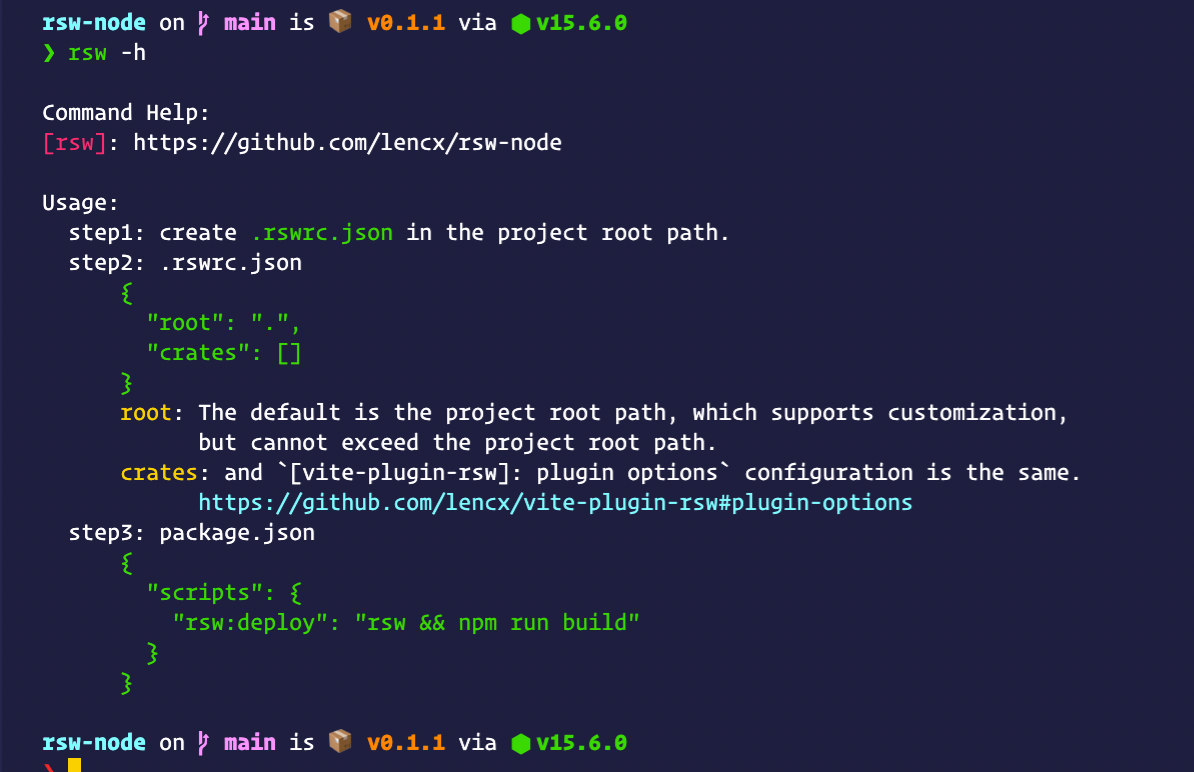
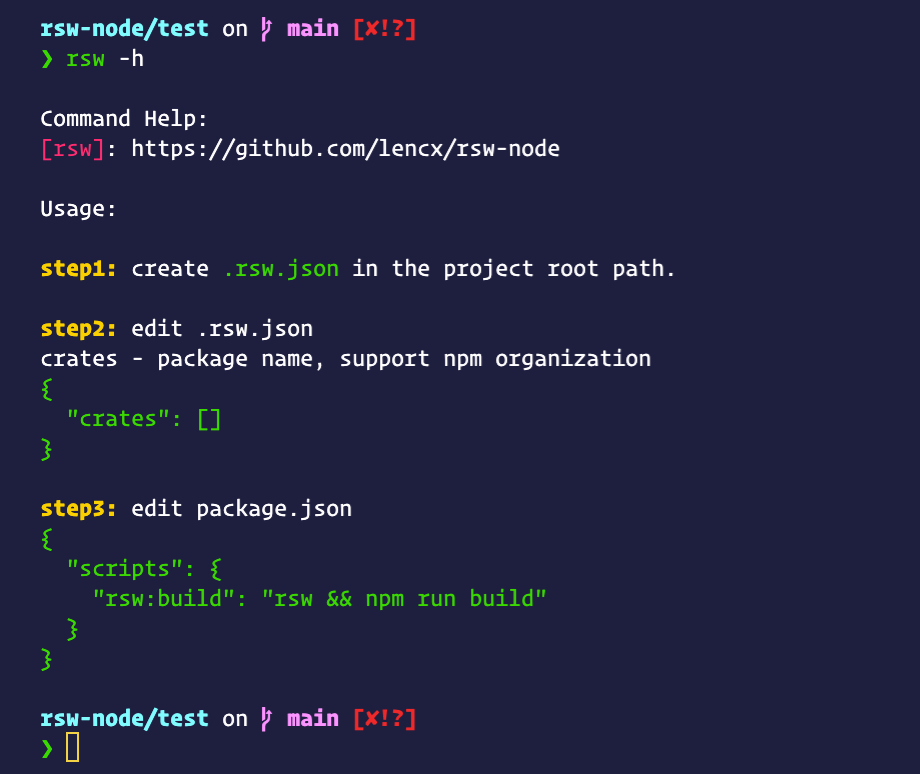
chore: update config

diff --git a/index.js b/index.js
@@ -8,9 +8,10 @@ const which = require('which');
 const debug = require('debug')('rsw:cmd');
 const spawnSync = require('child_process').spawnSync;
 const argv = require('minimist')(process.argv.slice(2));
+const rimraf = require('rimraf');
 
 const isWin = os.platform() === 'win32';
-const wpCmd = () => (isWin ? 'wasm-pack.exe' : 'wasm-pack');
+const wpCmd = isWin ? 'wasm-pack.exe' : 'wasm-pack';
 const getCrateName = (crate) => (typeof crate === 'object' ? crate.name : crate);
 
 async function init() {
@@ -28,69 +29,79 @@ async function init() {
   checkWpCmd();
 
   let cratesMap = new Map();
-  const hasRswrc = fs.existsSync('.rswrc.json');
 
-  if (hasRswrc) {
-    debug('`.rswrc.json` file exists');
-    const rswrc = fs.readFileSync(`.rswrc.json`, 'utf8');
-    const rcJSON = JSON.parse(rswrc);
-
-    if (!rcJSON.crates) {
-      console.log(
-        chalk.bold.red('[rsw::cmd::config]'),
-        chalk.red('`.rswrc.json` is missing the `crates` field.'),
-        chalk.red(`\n\`${JSON.stringify(rcJSON, null, 2)}\`\n`),
-      );
-      process.exit();
-    }
-
-    rcJSON.crates.forEach(i => {
-      let rswCrate, pkgName, scope, outDir;
-      const args = ['build', '--release', '--target', 'web'];
-
-      rswCrate = getCrateName(i);
-      outDir = getCratePath(i, rcJSON.root || '.');
-      if (rswCrate.startsWith('@')) {
-        const a = rswCrate.match(/(@.*)\/(.*)/);
-        scope = a[1].substring(1);
-        pkgName = `${scope}~${a[2]}`;
-      } else {
-        pkgName = rswCrate;
-      }
-
-      args.push('--out-name', pkgName);
-      if (scope) args.push('--scope', scope);
-      if (outDir) args.push('--out-dir', outDir);
-
-      const cmdCwd = path.resolve(process.cwd(), rcJSON.root || '.', rswCrate);
-
-      debug(`[wasm-pack build](${rswCrate}) ${args.join(' ')}`);
-      debug(`[wasm-pack cwd](${rswCrate}) ${cmdCwd}`);
-
-      let p = spawnSync(`${wpCmd()}`, args, {
-        shell: true,
-        cwd: cmdCwd,
-        stdio: 'inherit',
-      });
-
-      if (p.status !== 0) {
-        debug(`[wasm-pack build error](${rswCrate}) ${args.join(' ')}`);
-        console.log(chalk.red(`[rsw::cmd::error] wasm-pack for crate ${rswCrate} failed.`));
-        throw chalk.red(p.error);
-      }
-
-      debug(`[wasm-pack build success](${rswCrate}) ${outDir}`);
-      cratesMap.set(rswCrate, outDir);
-    });
-  } else {
-    debug('`.rswrc.json` file does not exist');
+  const hasRswrc = fs.existsSync('.rsw.json');
+  if (!hasRswrc) {
+    debug('`.rsw.json` file does not exist');
     console.log(
       chalk.bold.red('[rsw::cmd::config]'),
-      chalk.red('missing `.rswrc.json` file'),
+      chalk.red('missing `.rsw.json` file'),
     );
     cmdHelp();
     process.exit();
   }
+
+  rimraf.sync(`${process.cwd()}/.rsw/crates`);
+
+  debug('`.rsw.json` file exists');
+  const rswrc = fs.readFileSync(`.rsw.json`, 'utf8');
+  const rcJSON = JSON.parse(rswrc);
+
+  if (!rcJSON.crates) {
+    console.log(
+      chalk.bold.red('[rsw::cmd::config]'),
+      chalk.red('`.rsw.json` is missing the `crates` field.'),
+      chalk.red(`\n\`${JSON.stringify(rcJSON, null, 2)}\`\n`),
+    );
+    process.exit();
+  }
+
+  rcJSON.crates.forEach(i => {
+    let rswCrate, pkgName, scope, outDir;
+    const args = ['build', '--release', '--target', 'web'];
+
+    rswCrate = getCrateName(i);
+
+    spawnSync(`npm`, ['unlink', '-g', rswCrate], {
+      shell: true,
+      cwd: process.cwd(),
+      stdio: 'inherit',
+    });
+
+    outDir = getCratePath(i, `${process.cwd()}/.rsw/crates`);
+
+    if (rswCrate.startsWith('@')) {
+      const a = rswCrate.split(/@|\//);
+      scope = a[1];
+      pkgName = `${scope}~${a[2]}`;
+    } else {
+      pkgName = rswCrate;
+    }
+
+    args.push('--out-name', pkgName);
+    if (scope) args.push('--scope', scope);
+    if (outDir) args.push('--out-dir', outDir);
+
+    const cmdCwd = path.resolve(process.cwd(), rswCrate);
+
+    debug(`[wasm-pack build](${rswCrate}) ${args.join(' ')}`);
+    debug(`[wasm-pack cwd](${rswCrate}) ${cmdCwd}`);
+
+    let p = spawnSync(`${wpCmd}`, args, {
+      shell: true,
+      cwd: cmdCwd,
+      stdio: 'inherit',
+    });
+
+    if (p.status !== 0) {
+      debug(`[wasm-pack build error](${rswCrate}) ${args.join(' ')}`);
+      console.log(chalk.red(`[rsw::cmd::error] wasm-pack for crate ${rswCrate} failed.`));
+      throw chalk.red(p.error);
+    }
+
+    debug(`[wasm-pack build success](${rswCrate}) ${outDir}`);
+    cratesMap.set(rswCrate, outDir);
+  });
 
   spawnSync(`npm`, ['link', ...Array.from(cratesMap.values())], {
     shell: true,
@@ -104,7 +115,7 @@ async function init() {
       chalk.yellow(`  ↳ ${key} `),
       chalk.blue(` ${val} `),
     );
-  })
+  });
 }
 
 init().catch((e) => {
@@ -138,7 +149,7 @@ function getCratePath(crate, root) {
 };
 
 function checkWpCmd() {
-  const wasmPack = which.sync(wpCmd(), { nothrow: true });
+  const wasmPack = which.sync(wpCmd, { nothrow: true });
 
   if (!wasmPack) {
     debug('Cannot find `wasm-pack` in your PATH');
@@ -158,20 +169,19 @@ Command Help:
 ${chalk.magenta('[rsw]')}: https://github.com/lencx/rsw-node
 
 Usage:
-  step1: create ${chalk.green('.rswrc.json')} in the project root path.
-  step2: .rswrc.json
-      ${chalk.green(`{
-        "root": ".",
-        "crates": []
-      }`)}
-      ${chalk.yellow('root')}: The default is the project root path, which supports customization,
-            but cannot exceed the project root path.
-      ${chalk.yellow('crates')}: and \`[vite-plugin-rsw]: plugin options\` configuration is the same.
-            ${chalk.cyan('https://github.com/lencx/vite-plugin-rsw#plugin-options')}
-  step3: package.json
-      ${chalk.green(`{
-        "scripts": {
-          "rsw:deploy": "rsw && npm run build"
-        }
-      }`)}`);
+
+${chalk.bold.yellow`step1:`} create ${chalk.green('.rsw.json')} in the project root path.
+
+${chalk.bold.yellow`step2:`} edit .rsw.json
+crates - package name, support npm organization
+${chalk.green(`{
+  "crates": []
+}`)}
+
+${chalk.bold.yellow`step3:`} edit package.json
+${chalk.green(`{
+  "scripts": {
+    "rsw:build": "rsw && npm run build"
+  }
+}`)}`);
 }

diff --git a/README.md b/README.md
@@ -24,11 +24,13 @@
 npm install -g rsw-node
 ```
 
-<img width="640" src="https://github.com/lencx/rsw-node/raw/main/assets/rsw-cmd.png" alt="rsw cmd" />
-
 <img width="450" src="https://github.com/lencx/rsw-node/raw/main/assets/rsw-cmd-help.png" alt="rsw cmd help" />
 
-### Step1
+<img width="640" src="https://github.com/lencx/rsw-node/raw/main/assets/rsw-cmd.png" alt="rsw cmd" />
+
+![build](https://github.com/lencx/rsw-node/raw/main/assets/rsw-build.png)
+
+## Usage
 
 ```bash
 # install rsw
@@ -38,47 +40,50 @@ npm i -D rsw-node
 yarn add -D rsw-node
 ```
 
-### Step2
+```bash
+Usage:
 
-* Create `.rswrc.json` in the project root path.
-* `root`: The default is the project root path, which supports customization, but cannot exceed the project root path.
-* `crates` and [[vite-plugin-rsw]: plugin options](https://github.com/lencx/vite-plugin-rsw#plugin-options) configuration is the same
+step1: create .rsw.json in the project root path.
+
+step2: edit .rsw.json
+crates - package name, support npm organization
+{
+  "crates": []
+}
+
+step3: edit package.json
+{
+  "scripts": {
+    "rsw:build": "rsw && npm run build"
+  }
+}
+```
 
 For example:
 
-```json
+```jsonc
+// .rsw.json
 {
-  "root": ".",
   "crates": [
-    "@rsw/chasm",
-    "@rsw/game-of-life",
-    { "name": "rsw-hello", "outDir": "custom/path" }
+    "@rsw/chasm", // npm org
+    "game-of-life", // npm package
   ]
 }
 ```
 
-### Step3
-
-Add `rsw:deploy` to `package.json`
-
 ```jsonc
+// package.json
 {
+  // ...
   "scripts": {
     "dev": "vite",
     "build": "tsc && vite build",
-+   "rsw:deploy": "rsw && npm run build"
-  },
++   "rsw:build": "rsw && npm run build"
+  }
 }
 ```
 
 Use `DEBUG=rsw:cmd` to enable [debug](https://github.com/visionmedia/debug) mode
-
-```bash
-DEBUG=rsw:cmd yarn rsw:deploy
-```
-
-
-![debug](https://github.com/lencx/rsw-node/raw/main/assets/rsw-deploy.png)
 
 ## License
 
